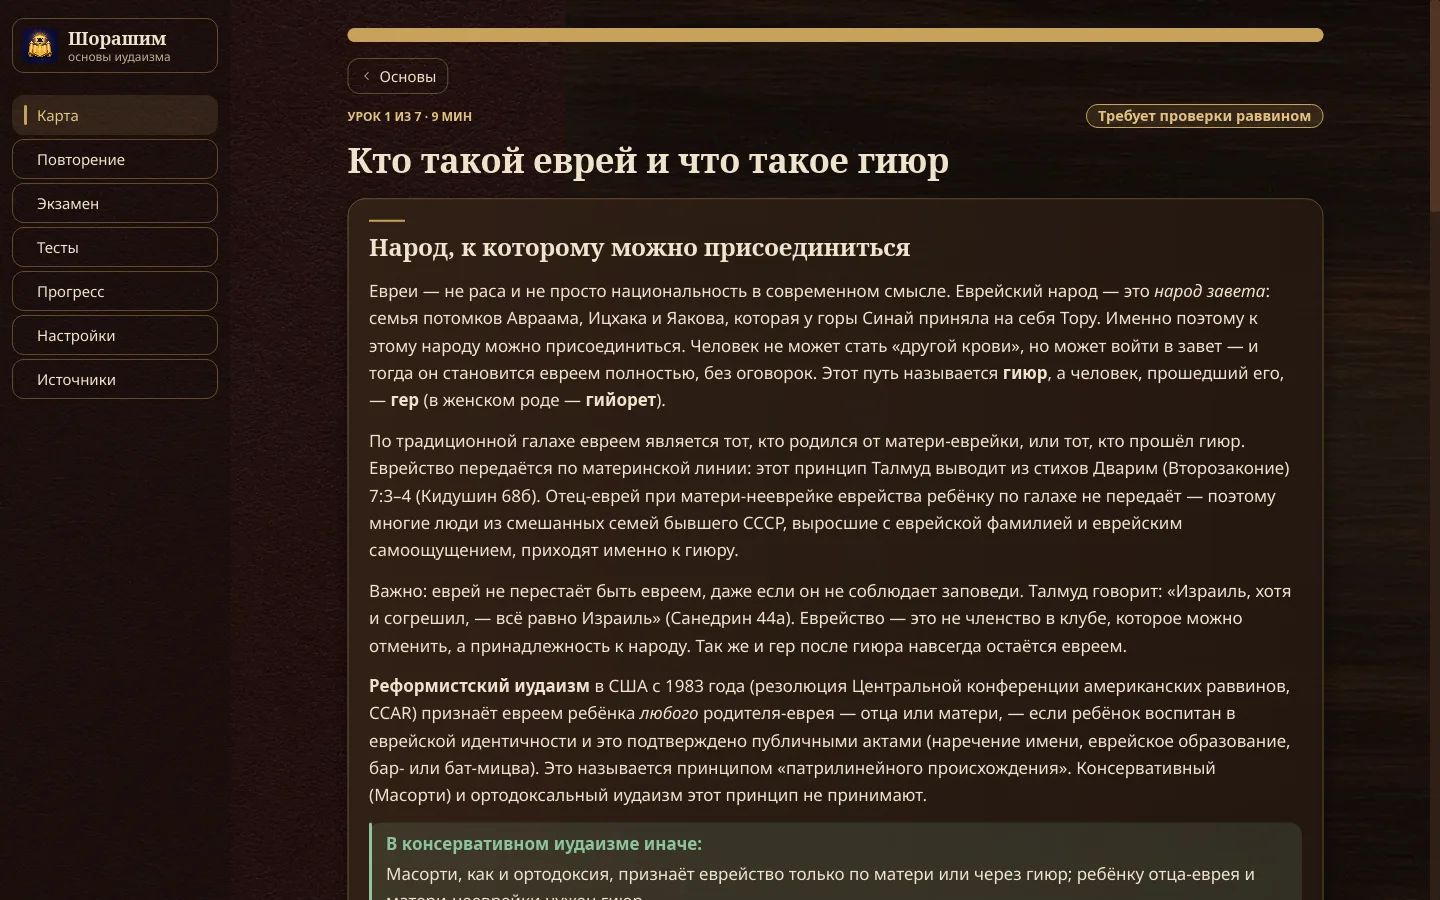
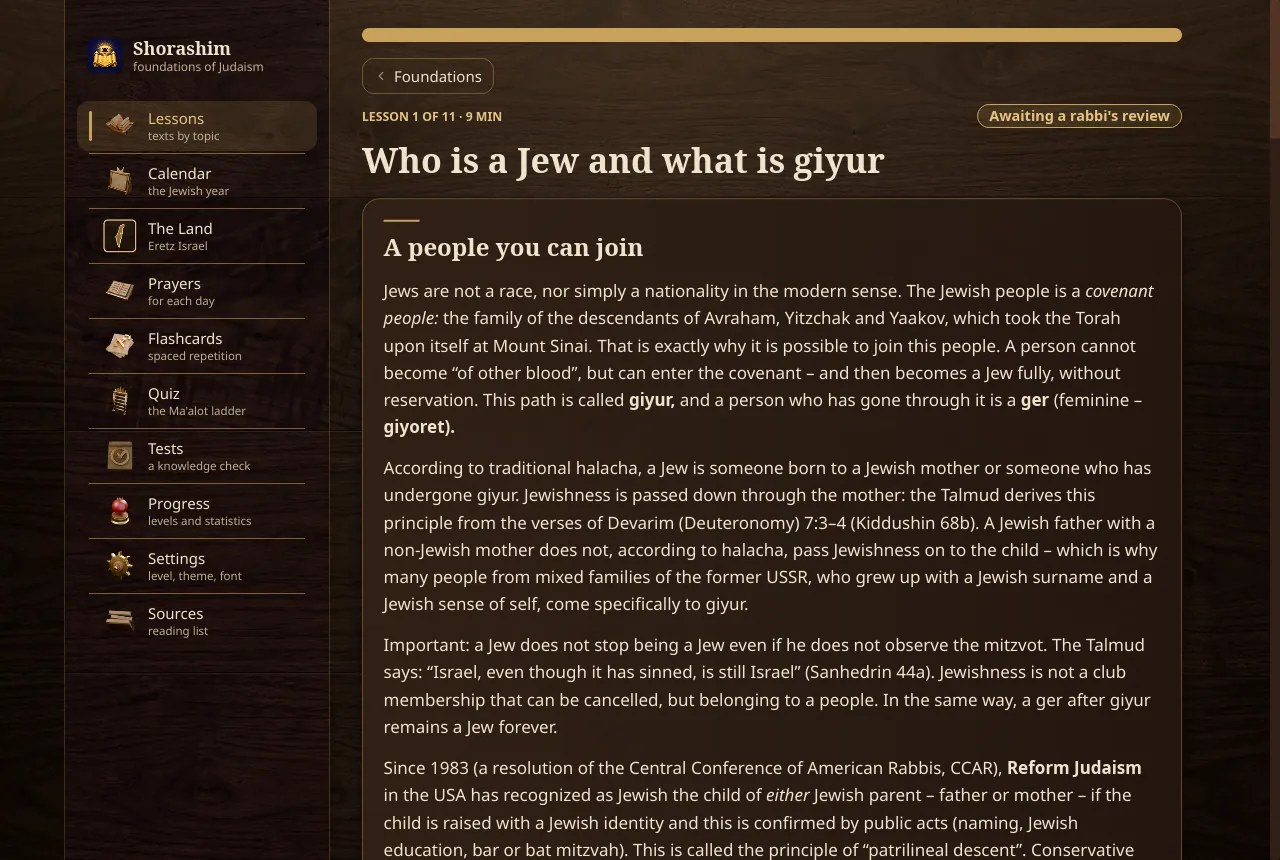
GitHub page in English: README, screenshots, rabbi-review notes, draft 1.0.0 release notes
Rewrite the README in English so a visitor can download Shorashim-Setup.exe from the latest release and start using the app. Add eight English WebP screenshots, a short English header on both rabbi-review checklists, a Support section with the existing TRON donation address, and draft release notes for 1.0.0 (not published here).

diff --git a/README.md b/README.md
@@ -1,24 +1,81 @@
-# Шорашим (Shorashim)
+# Shorashim
 
-Основы иудаизма и подготовка к гиюру. Учебное приложение на русском и английском языках: язык выбирается по Windows при первом запуске и меняется в «Настройках».
+Shorashim (Hebrew for “roots”) is an offline Windows app for studying the foundations of Judaism and for calm, step-by-step preparation for **giyur** and the **beit din** interview.
 
-Foundations of Judaism and preparation for giyur. A study app in Russian and English: the language follows Windows on first launch and can be changed in Settings.
+The course is written in the language of Torah and Tanakh — the Written and Oral Torah. It is consistently pro-Israel: Eretz Israel is the heritage the Torah gives the Jewish people, Jerusalem is the eternal undivided capital, and the State of Israel is the Jewish people’s return home.
 
-**Скачать / Download:** [Releases](../../releases)
+**[Download Shorashim-Setup.exe](https://github.com/Mitroshenkov87/shorashim/releases/latest)** — Windows 10 or 11, for the current user, no administrator rights needed. Russian is also available; the screenshots below are from the English version.
 
-**Лицензия / License:** Copyright 2026 Aleksandr Mitroshenkov. Apache License 2.0 — [`LICENSE`](LICENSE), [`NOTICE`](NOTICE).
+![Home](docs/screenshots/home.webp)
 
----
+## Features
 
-## Технические подробности / Technical details
+- **Lessons**, about 5–10 minutes each, in eight sections: from the foundations of faith to the beit din. Each lesson can be read at the Orthodox, Conservative (Masorti) or Reform level. Every movement is presented on its own terms, with equal care.
+- **Flashcards** with spaced repetition (1 → 3 → 7 → 14 → 30 days), including how a point is taught in the other movements.
+- **Quiz** and **Ma'alot**, a 15-step ladder of knowledge from easier questions to harder ones, with hints.
+- **Tests** on each section, plus a general exam, with a review of mistakes.
+- **Beit din interview trainer**: reading the topics, multiple-choice practice, and a rehearsal in which you can also answer aloud.
+- **Jewish calendar**: the date, the day’s meaning, the weekly Torah portion, and candle-lighting and fast times for a chosen place.
+- **Prayers**, with Hebrew, translation and transliteration (for example the Shema).
+- **Map of Eretz Israel.** The default view, **Israel today**, follows official Israeli maps. A separate **Borders by the Torah** layer shows the bounds of the Land in the Torah (Bereshit 15:18, Bamidbar 34, Devarim 11:24). A **Tribal allotments** layer follows Yehoshua 13–19.
+- **3D objects** you can turn with the mouse (a Torah scroll, and more), and optional quiet instrumental music (off by default, in Settings).
+- **Reviewer mode**, so a rabbi or a tester can open any part of the app without changing a student’s progress.
 
-**Установка / Install.** Скачайте `Shorashim-Setup.exe` со страницы [Releases](../../releases) и запустите: он установит программу для текущего пользователя (без прав администратора) вместе с папкой `content` (уроки, карточки, вопросы, молитвы, календарь) и музыкой, создаст ярлыки и запустит «Шорашим». Прогресс хранится отдельно (`%APPDATA%\Shorashim`) и при переустановке не меняется. / Download `Shorashim-Setup.exe` from Releases and run it: a per-user install of the app, its `content` folder and music. Course content is plain JSON read at run time — see [docs/CONTENT-UPDATES.md](docs/CONTENT-UPDATES.md).
+![A lesson](docs/screenshots/lesson.webp)
 
-**Прогресс / Progress.** `%APPDATA%\Shorashim\progress.json`.
+![Flashcards](docs/screenshots/flashcards.webp)
 
-**Музыка / Music.** Тихие инструментальные мелодии (по умолчанию выключены; включаются в «Настройках»). Треки созданы в Grok Imagine, лежат рядом с программой (`music/`, OGG Vorbis) и описаны в `music/manifest.json` — новый файл можно просто положить в папку и дописать в манифест.
+![Beit din interview trainer](docs/screenshots/interview.webp)
 
-**Сборка / Build from source.** Rust stable (<https://rustup.rs>):
+![Jewish calendar](docs/screenshots/calendar.webp)
+
+![Eretz Israel — Israel today](docs/screenshots/map-israel-today.webp)
+
+![Eretz Israel — Borders by the Torah](docs/screenshots/map-torah-borders.webp)
+
+![Settings: English and Russian](docs/screenshots/settings.webp)
+
+## English and Russian
+
+The app is in **English** and **Russian**. On first launch it follows the Windows interface language: Russian Windows opens the app in Russian; any other Windows language opens it in English. You can switch later in Settings; your progress is kept.
+
+The English name of the app is Shorashim; the Russian name is Шорашим.
+
+## Download and install
+
+1. Open the **[latest release](https://github.com/Mitroshenkov87/shorashim/releases/latest)**.
+2. Download **`Shorashim-Setup.exe`** — that is the only file you need.
+3. Run the installer. It unpacks the program, the `content` folder (lessons, cards, questions, prayers and the calendar) and the music, creates shortcuts, and starts Shorashim.
+
+Progress is stored separately, in `%APPDATA%\Shorashim`, and is left as it is if you install the app again. Everything works offline.
+
+## Course content
+
+Lessons, cards, quiz questions, the interview trainer, prayers and calendar texts are ordinary JSON files in `content/ru/` and `content/en/`, next to the program — nothing of this is built into the `.exe`. A wording fix is an edit to a file and a short repack of the installer; Rust does not need to be compiled again. The two languages keep the same file names and the same ids, so progress carries over when you switch language.
+
+A short guide to editing and checking the files is in [`docs/CONTENT-UPDATES.md`](docs/CONTENT-UPDATES.md). If a file is missing or invalid, the app shows a calm message with the file, the line and what is wrong; it does not crash.
+
+## Rabbi review
+
+All course content is checked by a rabbi. The checklists are:
+
+- [`docs/RABBI-REVIEW.md`](docs/RABBI-REVIEW.md) — Russian
+- [`docs/RABBI-REVIEW.en.md`](docs/RABBI-REVIEW.en.md) — English
+
+They share the same item ids (lessons, cards, questions, interview items, prayers, calendar days and map notes). A remark on an item applies to both languages.
+
+If you are a rabbi or a knowledgeable reader and would like to help, please [open an issue](https://github.com/Mitroshenkov87/shorashim/issues/new) and cite the item id. The app helps you study; it does not replace a teacher.
+
+## Support
+
+Donations go to AI tokens used to develop the app.
+
+Donations (TRON TRC-20, USDT or TRX): `TYveZBXaSpM4FEHa6iGrc7A6zuLfS4z3x6`  
+Send only via the TRON (TRC-20) network; other networks lose funds permanently.
+
+## Build from source
+
+Rust stable ([rustup](https://rustup.rs)):
 
 ```sh
 cargo run --release
@@ -28,6 +85,10 @@ rustup target add x86_64-pc-windows-gnu
 cargo build --release --target x86_64-pc-windows-gnu
 ```
 
-**Автоматизация / Automation.** Управление командами для тестов и ботов: `shorashim --control`, `shorashim ctl …`, `shorashim mcp`, `shorashim --headless` — [`docs/AUTOMATION.md`](docs/AUTOMATION.md). / Command control for tests and agents (off by default, localhost only).
+Command control for tests and agents (off by default, localhost only): `shorashim --control`, `shorashim ctl …`, `shorashim --headless` — see [`docs/AUTOMATION.md`](docs/AUTOMATION.md).
 
-Материалы требуют проверки раввином ([`docs/RABBI-REVIEW.md`](docs/RABBI-REVIEW.md)). / Content must be checked with your rabbi. Шрифты / Fonts: Noto (SIL OFL 1.1), DejaVu Sans (DejaVu Fonts license).
+Fonts: Noto (SIL OFL 1.1), DejaVu Sans (DejaVu Fonts license).
+
+## License
+
+Copyright 2026 Aleksandr Mitroshenkov. [Apache License 2.0](LICENSE) — see also [`NOTICE`](NOTICE).

diff --git a/docs/RELEASE-NOTES-1.0.0.md b/docs/RELEASE-NOTES-1.0.0.md
@@ -1,0 +1,35 @@
+# Shorashim 1.0.0
+
+The first public release of Shorashim: an offline Windows app for the foundations of Judaism and for calm, step-by-step preparation for giyur and the beit din interview.
+
+**Download:** `Shorashim-Setup.exe` from this release (Windows 10 or 11). That is the only file you need. The installer unpacks the program, the course files and the music for the current user; no administrator rights are required. Progress is stored in `%APPDATA%\Shorashim` and is left as it is if you install the app again.
+
+## What is in the app
+
+- Lessons of 5–10 minutes in eight sections, from the foundations of faith to the beit din. Each lesson can be read at the Orthodox, Conservative (Masorti) or Reform level. Every movement is presented on its own terms, with equal care.
+- Flashcards with spaced repetition, including how a point is taught in the other movements.
+- Quiz and Ma'alot, a 15-step ladder of knowledge, with hints.
+- Section tests and a general exam, with a review of mistakes.
+- A beit din interview trainer: reading the topics, multiple-choice practice, and a rehearsal in which you can also answer aloud.
+- A Jewish calendar, prayers with Hebrew, translation and transliteration, and a collection of 3D objects you can turn with the mouse. Quiet instrumental music can be turned on in Settings (it is off by default).
+- A map of Eretz Israel. The default view, **Israel today**, follows official Israeli maps: united Jerusalem and the Golan within Israel; Judea and Samaria labelled by their name, with the 1949 armistice line as a thin dashed line, the way Israel’s Foreign Ministry maps mark it; Aza outside Israel’s borders since 2005. A separate **Borders by the Torah** layer shows the bounds of the Land in the Torah (Bereshit 15:18, Bamidbar 34, Devarim 11:24). A **Tribal allotments** layer follows Yehoshua 13–19.
+- Reviewer mode, so a rabbi or a tester can open any part of the app without changing a student’s progress.
+
+The course is written in the language of Torah and Tanakh. It is consistently pro-Israel: Eretz Israel is the heritage the Torah gives the Jewish people, Jerusalem is the eternal undivided capital, and the State of Israel is the Jewish people’s return home.
+
+## English and Russian
+
+The app is in English and Russian. On first launch it follows the Windows interface language: Russian Windows opens the app in Russian; any other Windows language opens it in English. You can switch later in Settings; your progress is kept. The English name of the app is Shorashim; the Russian name is Шорашим.
+
+## Course files and rabbi review
+
+Lessons, cards, questions, prayers and calendar texts live as JSON files in a `content` folder next to the program, not inside the `.exe`. A wording fix is an edit to a file and a short repack of the installer. If a file is missing or invalid, the app shows a calm message with the file, the line and what is wrong.
+
+All course content is checked by a rabbi. The checklists [`docs/RABBI-REVIEW.md`](RABBI-REVIEW.md) (Russian) and [`docs/RABBI-REVIEW.en.md`](RABBI-REVIEW.en.md) (English) share the same item ids. If you are a rabbi or a knowledgeable reader and would like to help, please open a GitHub issue and cite the item id. The app helps you study; it does not replace a teacher.
+
+## Support
+
+Donations go to AI tokens used to develop the app.
+
+Donations (TRON TRC-20, USDT or TRX): `TYveZBXaSpM4FEHa6iGrc7A6zuLfS4z3x6`  
+Send only via the TRON (TRC-20) network; other networks lose funds permanently.

diff --git a/docs/RABBI-REVIEW.en.md b/docs/RABBI-REVIEW.en.md
@@ -1,6 +1,6 @@
 # Content review checklist (for a community rabbi)
 
-> English edition of docs/RABBI-REVIEW.md. Every item keeps the same ids (lesson, card, question, interview, calendar, prayer and map ids) as the Russian checklist, so a note on an item applies to both languages: the English texts are in content/en/, the Russian ones in content/ru/.
+> English edition of docs/RABBI-REVIEW.md. Every item keeps the same ids (lesson, card, question, interview, calendar, prayer and map ids) as the Russian checklist, so a note on an item applies to both languages: the English texts are in content/en/, the Russian ones in content/ru/. All course content is checked by a rabbi. If you are a rabbi or a knowledgeable reader and would like to help, please [open a GitHub issue](https://github.com/Mitroshenkov87/shorashim/issues/new) and cite the item id.
 
 This document is compiled from the reports of the authors of the eight sections of the Shorashim app. Each author attached a “RABBI REVIEW” list — items about which he himself is unsure and which require a rabbi’s review: exact source references, disputed formulations, and communal customs.
 

diff --git a/docs/RABBI-REVIEW.md b/docs/RABBI-REVIEW.md
@@ -1,3 +1,5 @@
+> **English.** This is the Russian rabbi-review checklist for the Shorashim study app. The English edition is [`docs/RABBI-REVIEW.en.md`](RABBI-REVIEW.en.md). Both files share the same item ids (lessons, cards, questions, interview items, prayers, calendar days, map notes), so a remark on an item applies to both languages. All course content is checked by a rabbi. If you are a rabbi or a knowledgeable reader and would like to help, please [open a GitHub issue](https://github.com/Mitroshenkov87/shorashim/issues/new) and cite the item id.
+
 # Чек-лист проверки содержания (для общинного раввина)
 
 Этот документ собран из отчётов авторов восьми разделов приложения «Шорашим». Каждый автор приложил список «RABBI REVIEW» — пункты, в которых он сам сомневается и которые требуют проверки раввином: точные ссылки на источники, спорные формулировки, общинные обычаи.
